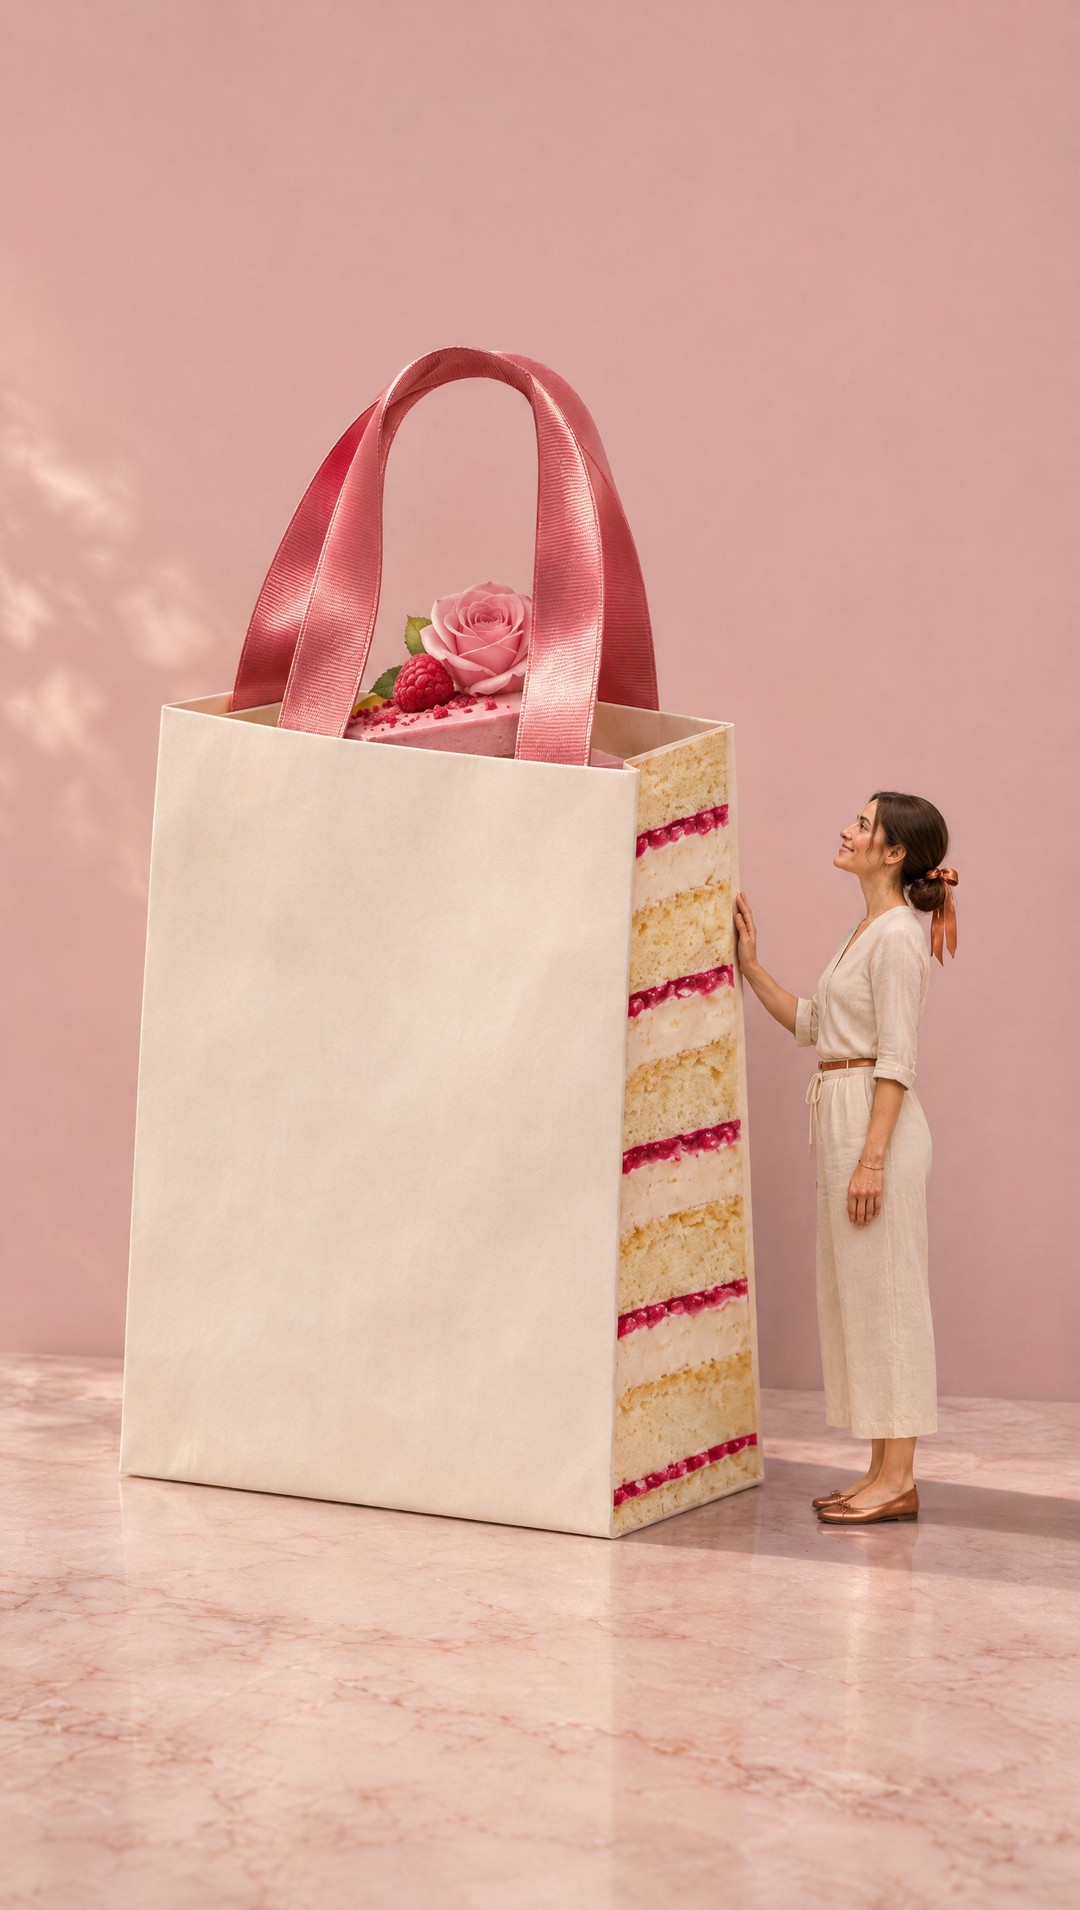
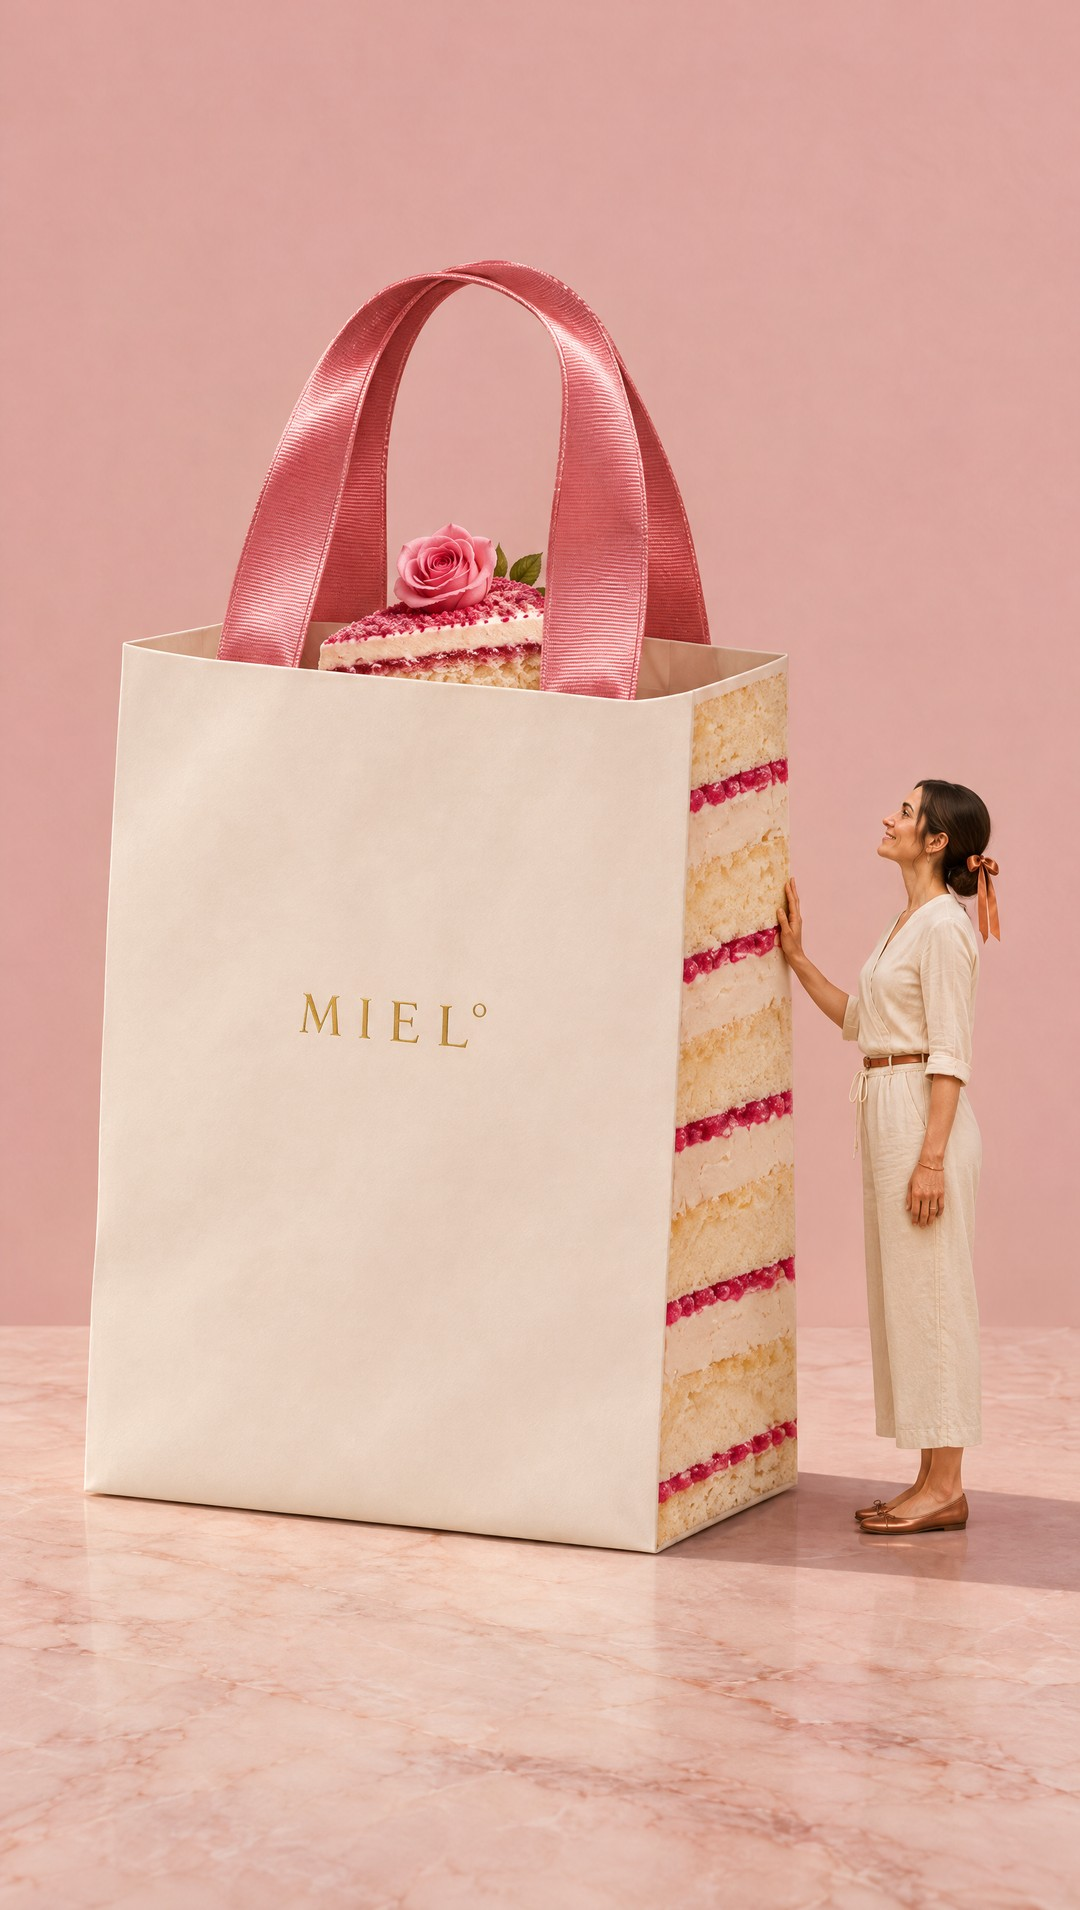
MIEL ad: corrected vitrine and bag stills (hands, MIEL wordmark)
Claude-Session: https://claude.ai/code/session_01Uv8Gehd91a3UaGihMgdYcj

diff --git a/campaign-drop/2026-11-miel-choose/src/reel-4x5.html b/campaign-drop/2026-11-miel-choose/src/reel-4x5.html
@@ -20,8 +20,8 @@ img{display:block}
 <div style="position:absolute;right:0;top:0;width:44px;height:44px;border-radius:999px;background:#C28A5A;box-shadow:0 0 0 10px #D9AE85,0 8px 18px rgba(20,30,45,.25);--x0:0px;--x1:-852px;animation:walk 2.6s cubic-bezier(.4,0,.2,1) .1s both"></div></div>
 </div>
 </section><section class="scene" style="animation:fade .25s linear 3.0s both;overflow:hidden;background:#E3AEB8">
-<div style="position:absolute;left:0;top:-280px;width:1080px;height:1910px;transform-origin:22% 56%;--z0:1;--z1:1.22;animation:push 4.3s cubic-bezier(.3,0,.3,1) 3.0s both">
-<img src="assets/scene-vitrine.jpg" style="width:1080px;height:1910px"><div style="position:absolute;left:31%;top:71.5%;translate:-50% -50%;padding:8px 26px;border-radius:999px;background:#15202E;color:#F2EBDC;font-size:38px;font-weight:600;line-height:1.3;direction:ltr;animation:pop 0.4s cubic-bezier(.2,.8,.2,1) 4.2s both">₪290</div></div>
+<div style="position:absolute;left:0;top:-280px;width:1080px;height:1910px;transform-origin:18% 56%;--z0:1;--z1:1.3;animation:push 4.3s cubic-bezier(.3,0,.3,1) 3.0s both">
+<img src="assets/scene-vitrine.jpg" style="width:1080px;height:1910px"><div style="position:absolute;left:27%;top:68.5%;translate:-50% -50%;padding:8px 26px;border-radius:999px;background:#15202E;color:#F2EBDC;font-size:38px;font-weight:600;line-height:1.3;direction:ltr;animation:pop 0.4s cubic-bezier(.2,.8,.2,1) 4.2s both">₪290</div></div>
 <div style="position:absolute;left:80px;right:80px;top:60px;display:flex;flex-direction:column;align-items:flex-start;gap:14px">
 <div style="padding:10px 28px;border:2px solid #D9AE85;border-radius:999px;background:rgba(242,235,220,.86);font-size:28px;line-height:1.4;color:#825630;animation:fade 0.35s cubic-bezier(.2,.8,.2,1) 3.2s both">MIEL° · עולם מותג קונספט · No.27</div>
 <div style="padding:10px 28px;margin-right:-28px;border-radius:12px;background:rgba(242,235,220,.92);font-size:64px;line-height:1.2;font-weight:600;animation:rise 0.5s cubic-bezier(.2,.8,.2,1) 3.5s both">אותו מחיר. <span style="color:#825630">עולם אחר.</span></div>

diff --git a/campaign-drop/2026-11-miel-choose/src/reel-9x16.html b/campaign-drop/2026-11-miel-choose/src/reel-9x16.html
@@ -20,8 +20,8 @@ img{display:block}
 <div style="position:absolute;right:0;top:0;width:44px;height:44px;border-radius:999px;background:#C28A5A;box-shadow:0 0 0 10px #D9AE85,0 8px 18px rgba(20,30,45,.25);--x0:0px;--x1:-852px;animation:walk 2.6s cubic-bezier(.4,0,.2,1) .1s both"></div></div>
 </div>
 </section><section class="scene" style="animation:fade .25s linear 3.0s both;overflow:hidden;background:#E3AEB8">
-<div style="position:absolute;left:0;top:5px;width:1080px;height:1910px;transform-origin:22% 56%;--z0:1;--z1:1.22;animation:push 4.3s cubic-bezier(.3,0,.3,1) 3.0s both">
-<img src="assets/scene-vitrine.jpg" style="width:1080px;height:1910px"><div style="position:absolute;left:31%;top:71.5%;translate:-50% -50%;padding:8px 26px;border-radius:999px;background:#15202E;color:#F2EBDC;font-size:38px;font-weight:600;line-height:1.3;direction:ltr;animation:pop 0.4s cubic-bezier(.2,.8,.2,1) 4.2s both">₪290</div></div>
+<div style="position:absolute;left:0;top:5px;width:1080px;height:1910px;transform-origin:18% 56%;--z0:1;--z1:1.3;animation:push 4.3s cubic-bezier(.3,0,.3,1) 3.0s both">
+<img src="assets/scene-vitrine.jpg" style="width:1080px;height:1910px"><div style="position:absolute;left:27%;top:68.5%;translate:-50% -50%;padding:8px 26px;border-radius:999px;background:#15202E;color:#F2EBDC;font-size:38px;font-weight:600;line-height:1.3;direction:ltr;animation:pop 0.4s cubic-bezier(.2,.8,.2,1) 4.2s both">₪290</div></div>
 <div style="position:absolute;left:80px;right:80px;top:180px;display:flex;flex-direction:column;align-items:flex-start;gap:14px">
 <div style="padding:10px 28px;border:2px solid #D9AE85;border-radius:999px;background:rgba(242,235,220,.86);font-size:28px;line-height:1.4;color:#825630;animation:fade 0.35s cubic-bezier(.2,.8,.2,1) 3.2s both">MIEL° · עולם מותג קונספט · No.27</div>
 <div style="padding:10px 28px;margin-right:-28px;border-radius:12px;background:rgba(242,235,220,.92);font-size:64px;line-height:1.2;font-weight:600;animation:rise 0.5s cubic-bezier(.2,.8,.2,1) 3.5s both">אותו מחיר. <span style="color:#825630">עולם אחר.</span></div>

diff --git a/campaign-drop/2026-11-miel-choose/src/gen.py b/campaign-drop/2026-11-miel-choose/src/gen.py
@@ -39,7 +39,7 @@ def build(H):
     # ── 2 · MIEL 3–7: the same price, inside a world; she pulls her slice out of the vitrine ──
     a = 3.0
     vit = f'''<section class="scene" style="animation:fade .25s linear {a}s both;overflow:hidden;background:#E3AEB8">
-{stage('scene-vitrine.jpg', a, 4.0, '22% 56%', 1, 1.22, price(31, 71.5, a+1.2))}
+{stage('scene-vitrine.jpg', a, 4.0, '18% 56%', 1, 1.3, price(27, 68.5, a+1.2))}
 <div style="position:absolute;left:80px;right:80px;top:{top}px;display:flex;flex-direction:column;align-items:flex-start;gap:14px">
 {pill('MIEL° · עולם מותג קונספט · No.27', a+.2)}
 {plate(f'אותו מחיר. <span style="color:{CTEXT}">עולם אחר.</span>', a+.5)}
